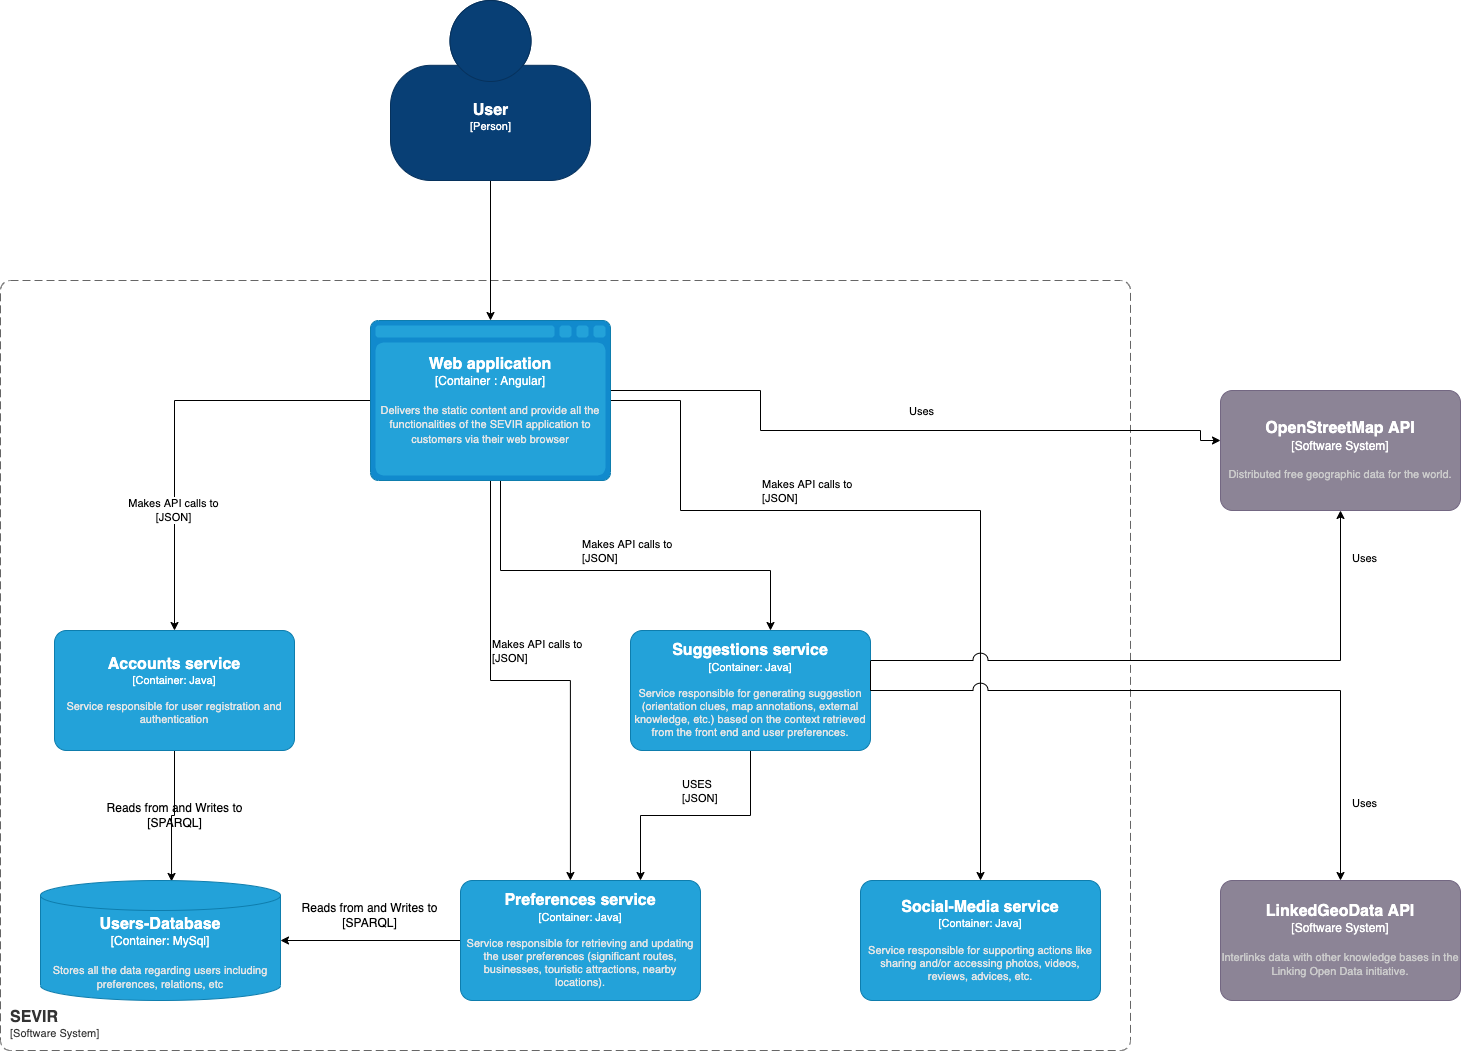
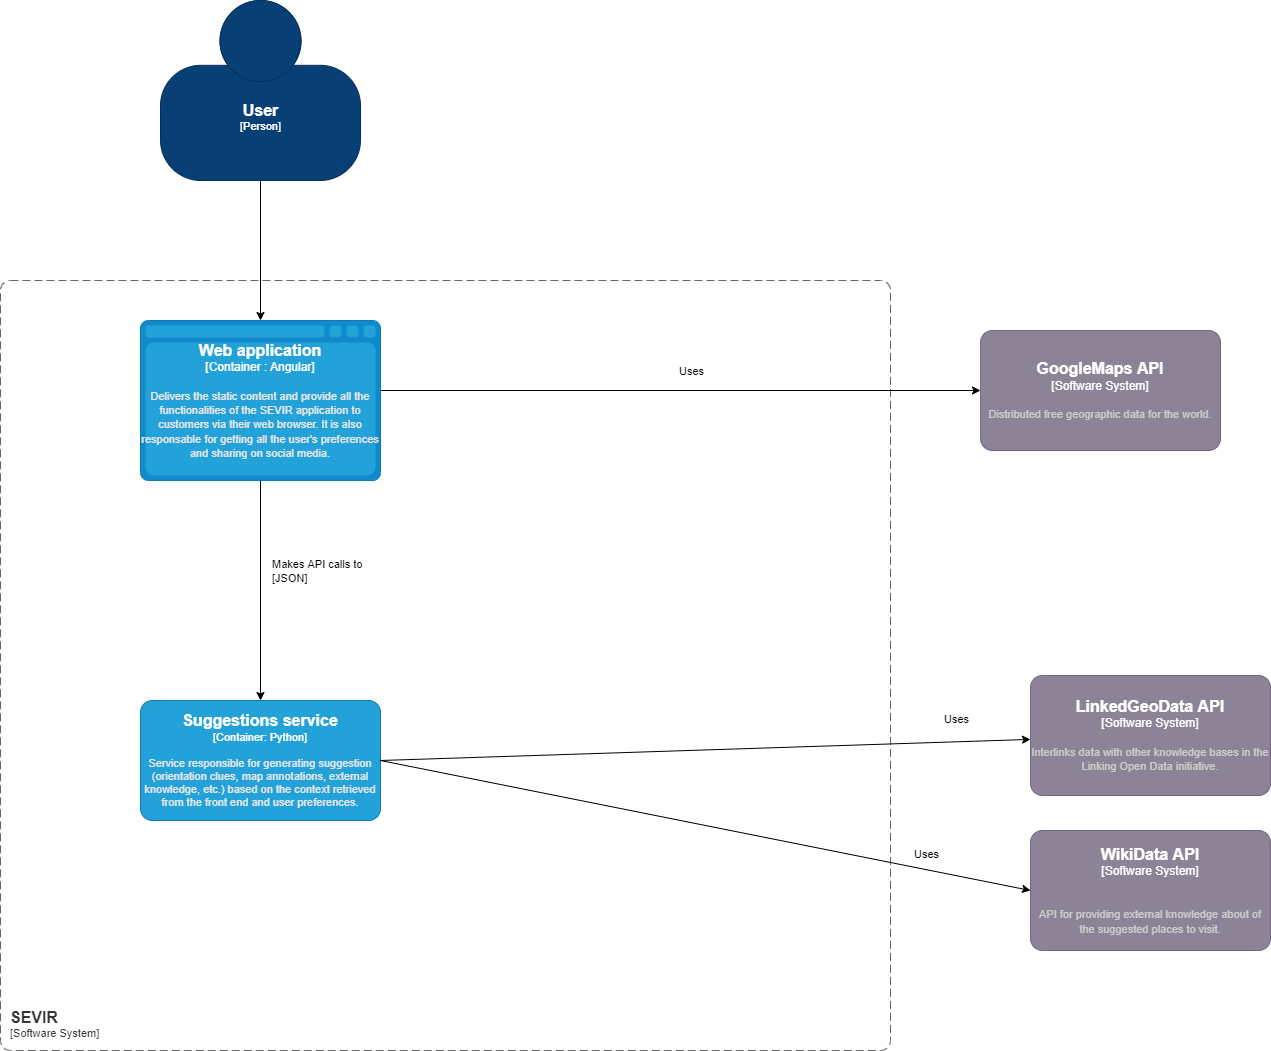
doc

diff --git a/DesignArchitecture/SEVIR_report.html b/DesignArchitecture/SEVIR_report.html
@@ -56,7 +56,7 @@
       <figcaption style="text-align: center;">Fig. 1: Usecase diagram</figcaption>
     </figure>
     <p>
-      The application might be used by a normal user with the fallowing use case scenarios:
+      Initial list of use case scenarios:
     </p>
     <ul>
       <li>Register as a new user of the application.</li>
@@ -70,6 +70,21 @@
         This action requires authentication.</li>
       <li>Share or access photos, videos, reviews, advices on/from social media. This action requires
         authentication. </li>
+    </ul>
+
+    <p>
+      List of use case scenarios for the functionalities implemented (corresponding to the actual variant of the application):
+    </p>
+    <ul>
+      <li>Search for a new place to visit by typing the name/address.</li>
+      <li>Set the personal interest points, for example: cultural or sportive attractions, shopping related places, etc.</li>
+      <li>Set whether a child will be involved in the trip. (For a smoother journey, with stops not so far from the main route)</li>
+      <li>Set the number of hours that you have available in order to visit the place. We will consider that a place can be visited in a medium time of 1 hour.</li>
+      <li>View a possible route for visiting the desired place with multiple attractions that the user is interested in and based on the time and availability to deviate from the route. On the map it will also be marked: the actual location of the user, the destination point.</li>
+      <li>See details for each of the shown attractions such as: short description, address, image.</li>
+      <li>Go back to the search engine.</li>
+      <li>Change the language of the application. It is available for romanian and english at the moment.</li>
+      <li>Share the experience with Sevir application on social media. </li>
     </ul>
   </section>
   <section id="architecture">
@@ -119,7 +134,7 @@
         <figcaption style="text-align: center;">Fig. 3: APIs specification</figcaption>
       </figure>
     <p>
-      As an example, for the suggestions service the GET request will be implemented as fallows:
+      As an example, for the suggestions service the GET request will be implemented as follows:
     </p>
       <figure typeOf="sa:image">
         <img src="request.jpg" alt="request" width="900">
@@ -129,19 +144,50 @@
   <section typeof="sa:ExternalAPIs" id="ExternalAPIs">
     <h2><span>6. </span>External APIs</h2>
     <p>
-      <b>OpenStreetMap</b> is a project that creates and distributes free geographic data. OpenStreetMap represents
-      physical features on the ground (e.g., roads or buildings) using tags attached to its basic data
-      structures (its nodes, ways, and relations). Each tag describes a geographic attribute of the feature
-      being shown by that specific node, way or relation.
-      OpenStreetMap's free tagging system allows the map to include an unlimited number of attributes describing each
-      feature.
-    </p>
-    <p>
       <b>LinkedGeoData</b> is an effort to add a spatial dimension to the Web of Data / Semantic Web. LinkedGeoData uses
       the information collected by the OpenStreetMap project and makes it available as an RDF knowledge base according
       to the Linked Data principles. It interlinks this data with other knowledge bases in the Linking Open Data
       initiative.
     </p>
+    <p>We have used this API for the Suggestions Service in the scope of generating points from the
+       map that are marked as interest points by the user. In this manner, we can query for all the results of a specific
+       type (for example museums) having a central point specified by latitude and longitude and a maximum distance 
+       of X kilometers (for example 1) as radius. A specific example together with the query result can be seen below:
+    </p>
+
+    <img src="linkedQuery.png" alt="request" width="900">
+        <figcaption style="text-align: center;">Fig. 4: Example of LinkedGeoData query</figcaption>
+        <p></p>
+        <p></p>
+    <img src="linkedResult.png" alt="request" width="900">
+        <figcaption style="text-align: center;">Fig. 4: Example of LinkedGeoData result</figcaption>
+
+    <p>The Suggestion Service at the endpoint for getting the suggestions collects all 
+      the results and creates a list with all the locations that are a interest point for the user
+      together with the place name(in both romanian and english if it is available) based on the 
+      start and the destination locations and also taking into consideration the user's preferences 
+      and needs (hours, with or without kids).</p>
+    <img src="getSuggestions.png" alt="request" width="900">
+        <figcaption style="text-align: center;">Fig. 4: Example of getSuggestions result</figcaption>
+    <p></p>
+    <p>
+      <b>Wikidata</b> is used to find items and properties that provide language-independent information about
+      entities (real-world things) in applications such as events, places, people, works of art, concepts, etc.
+      </p>
+    <p>In our case it was used for getting extra details about each of the places that are generated as points of
+      interest from the suggestions endpoint. For this, we created a query that searches for places that have values 
+      property P625 (coordinates) approximately equals to the latitude and longitude of the given place. It have been
+      taken into account an error (for example 0.1) for possible incoherency in the data between LinkedGeoData and Wikidata.
+      Also, the language have to be provided in order to get the information in the desired format.</p>
+    <img src="queryWikidata.png" alt="request" width="900">
+      <figcaption style="text-align: center;">Fig. 4: Example of Wikidata query and result</figcaption>
+    <p></p>
+    <p></p>
+    <img src="getDetails.png" alt="request" width="900">
+      <figcaption style="text-align: center;">Fig. 4: Example of getDetails result</figcaption>
+    <p></p>
+    <p>
+        <b>SPARQL ????</b>
   </section>
   <section typeof="sa:references" id="references">
     <h2><span>7. </span>References</h2>
